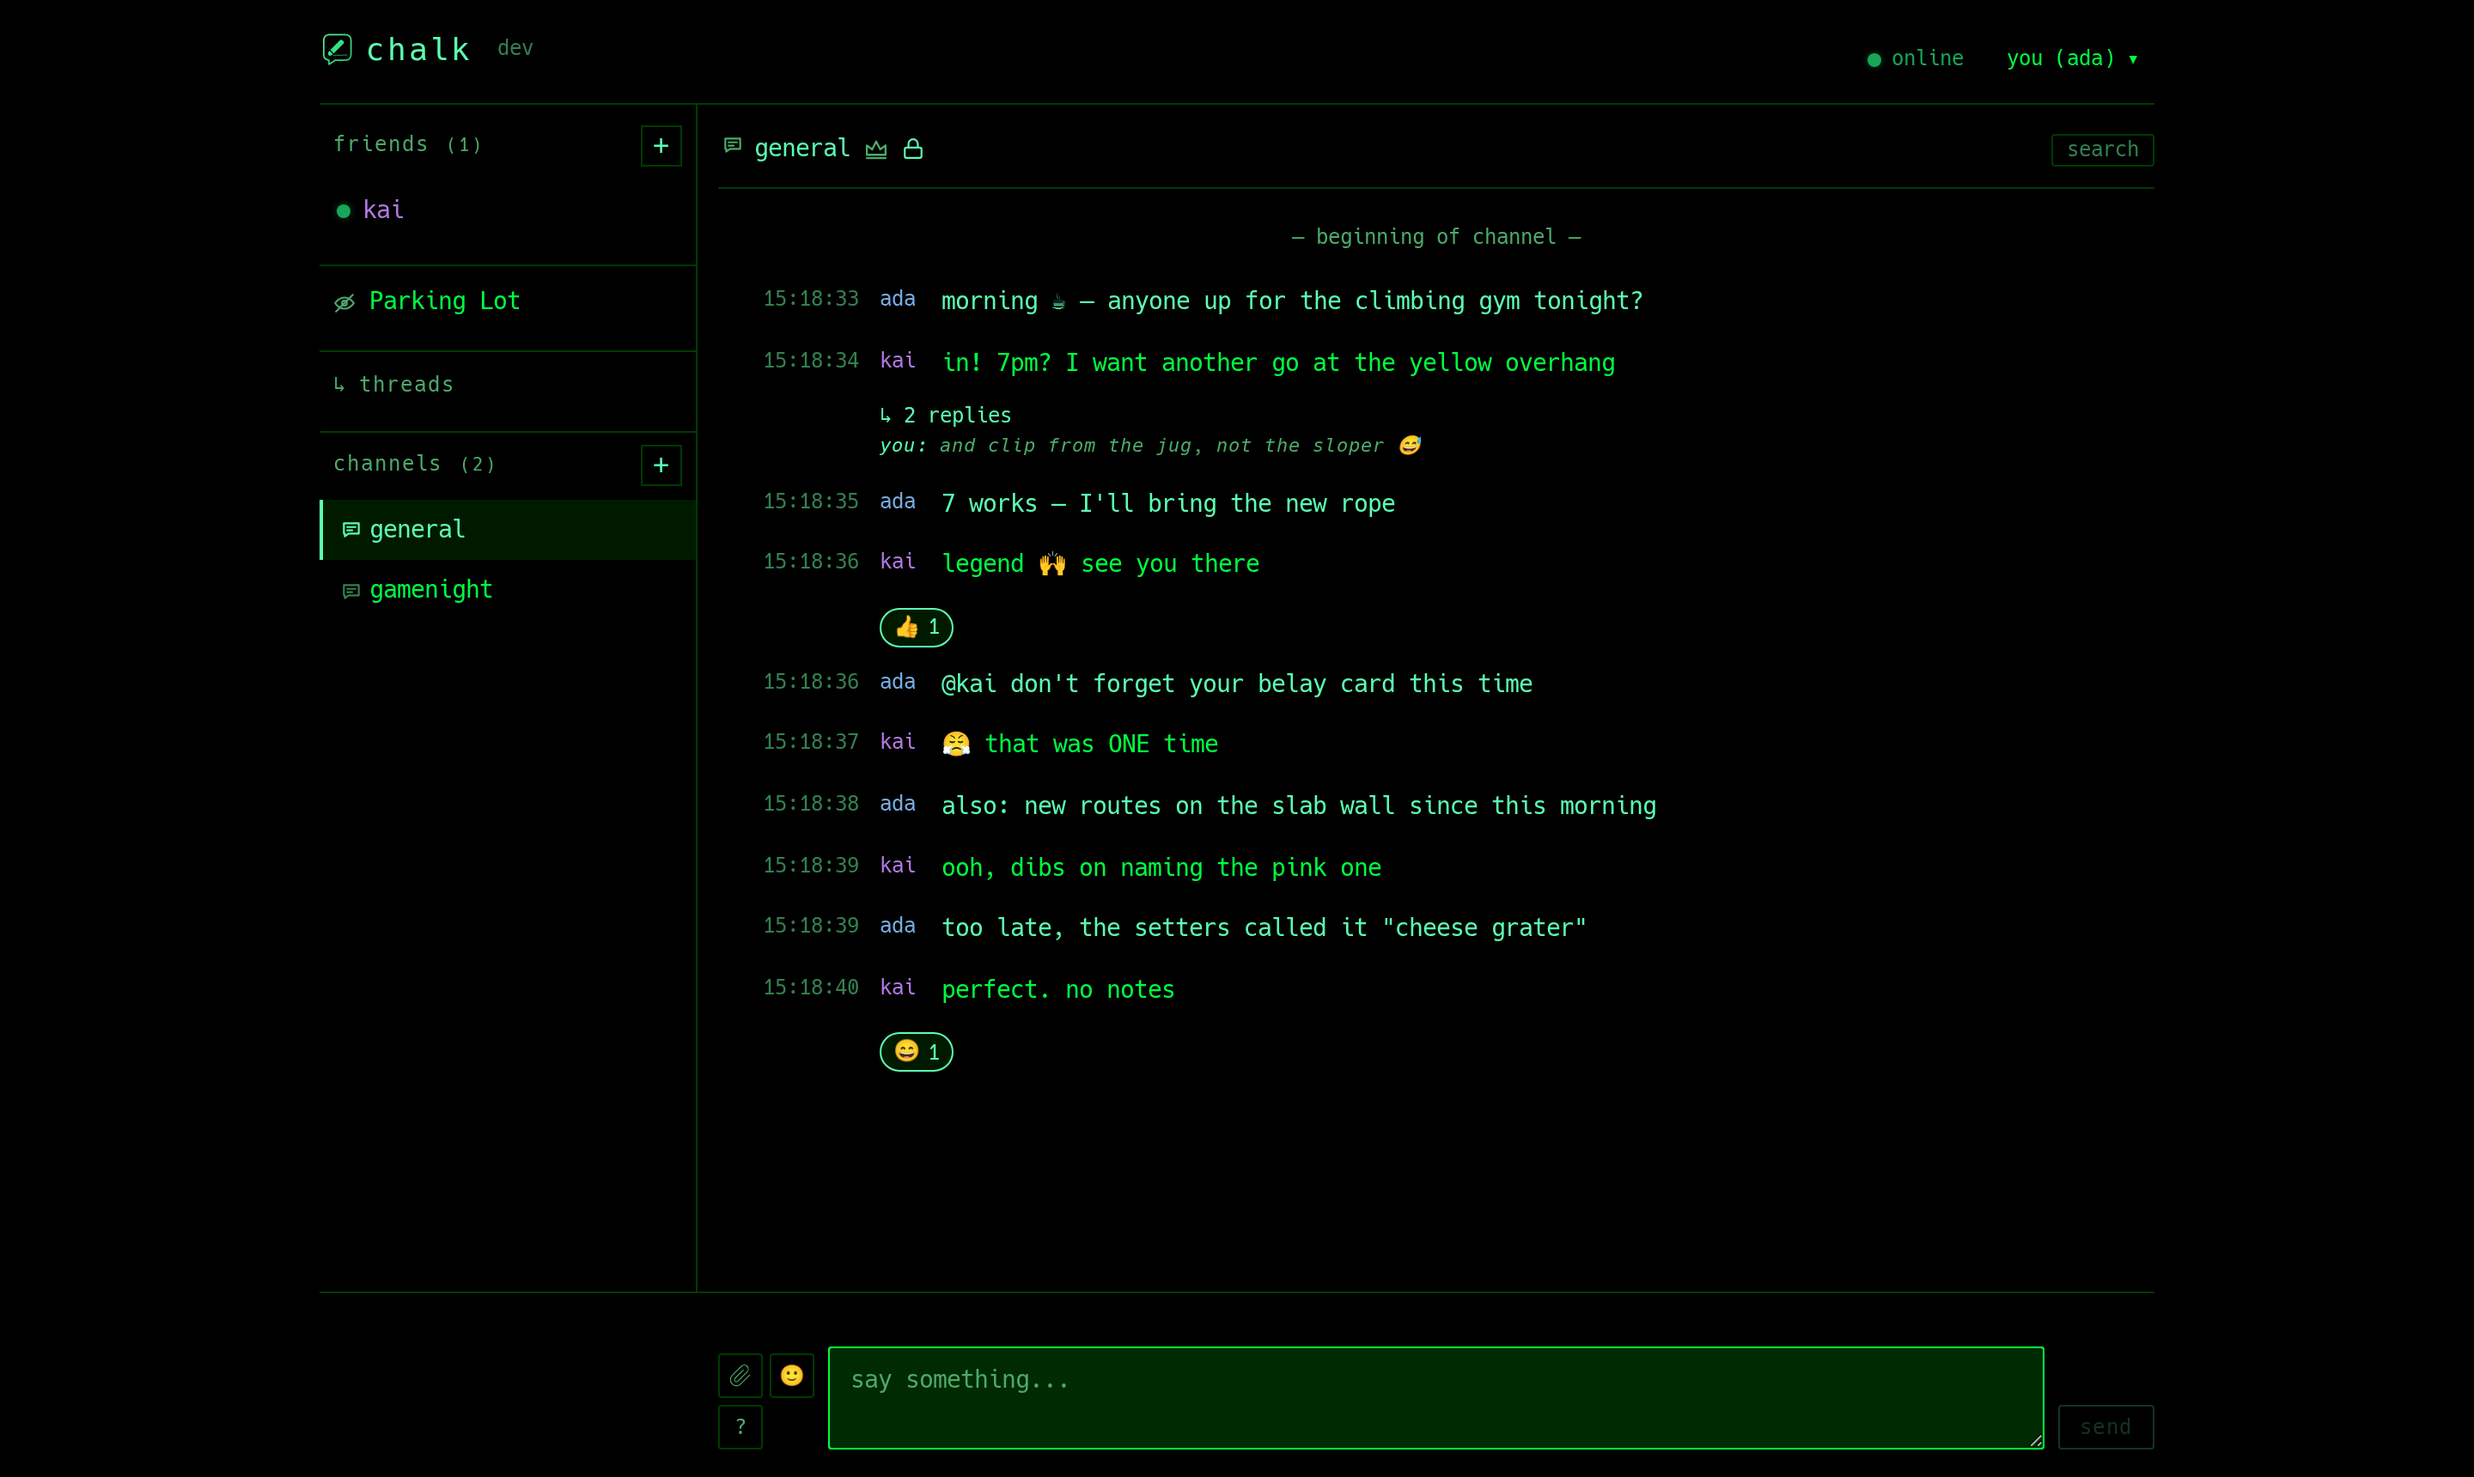
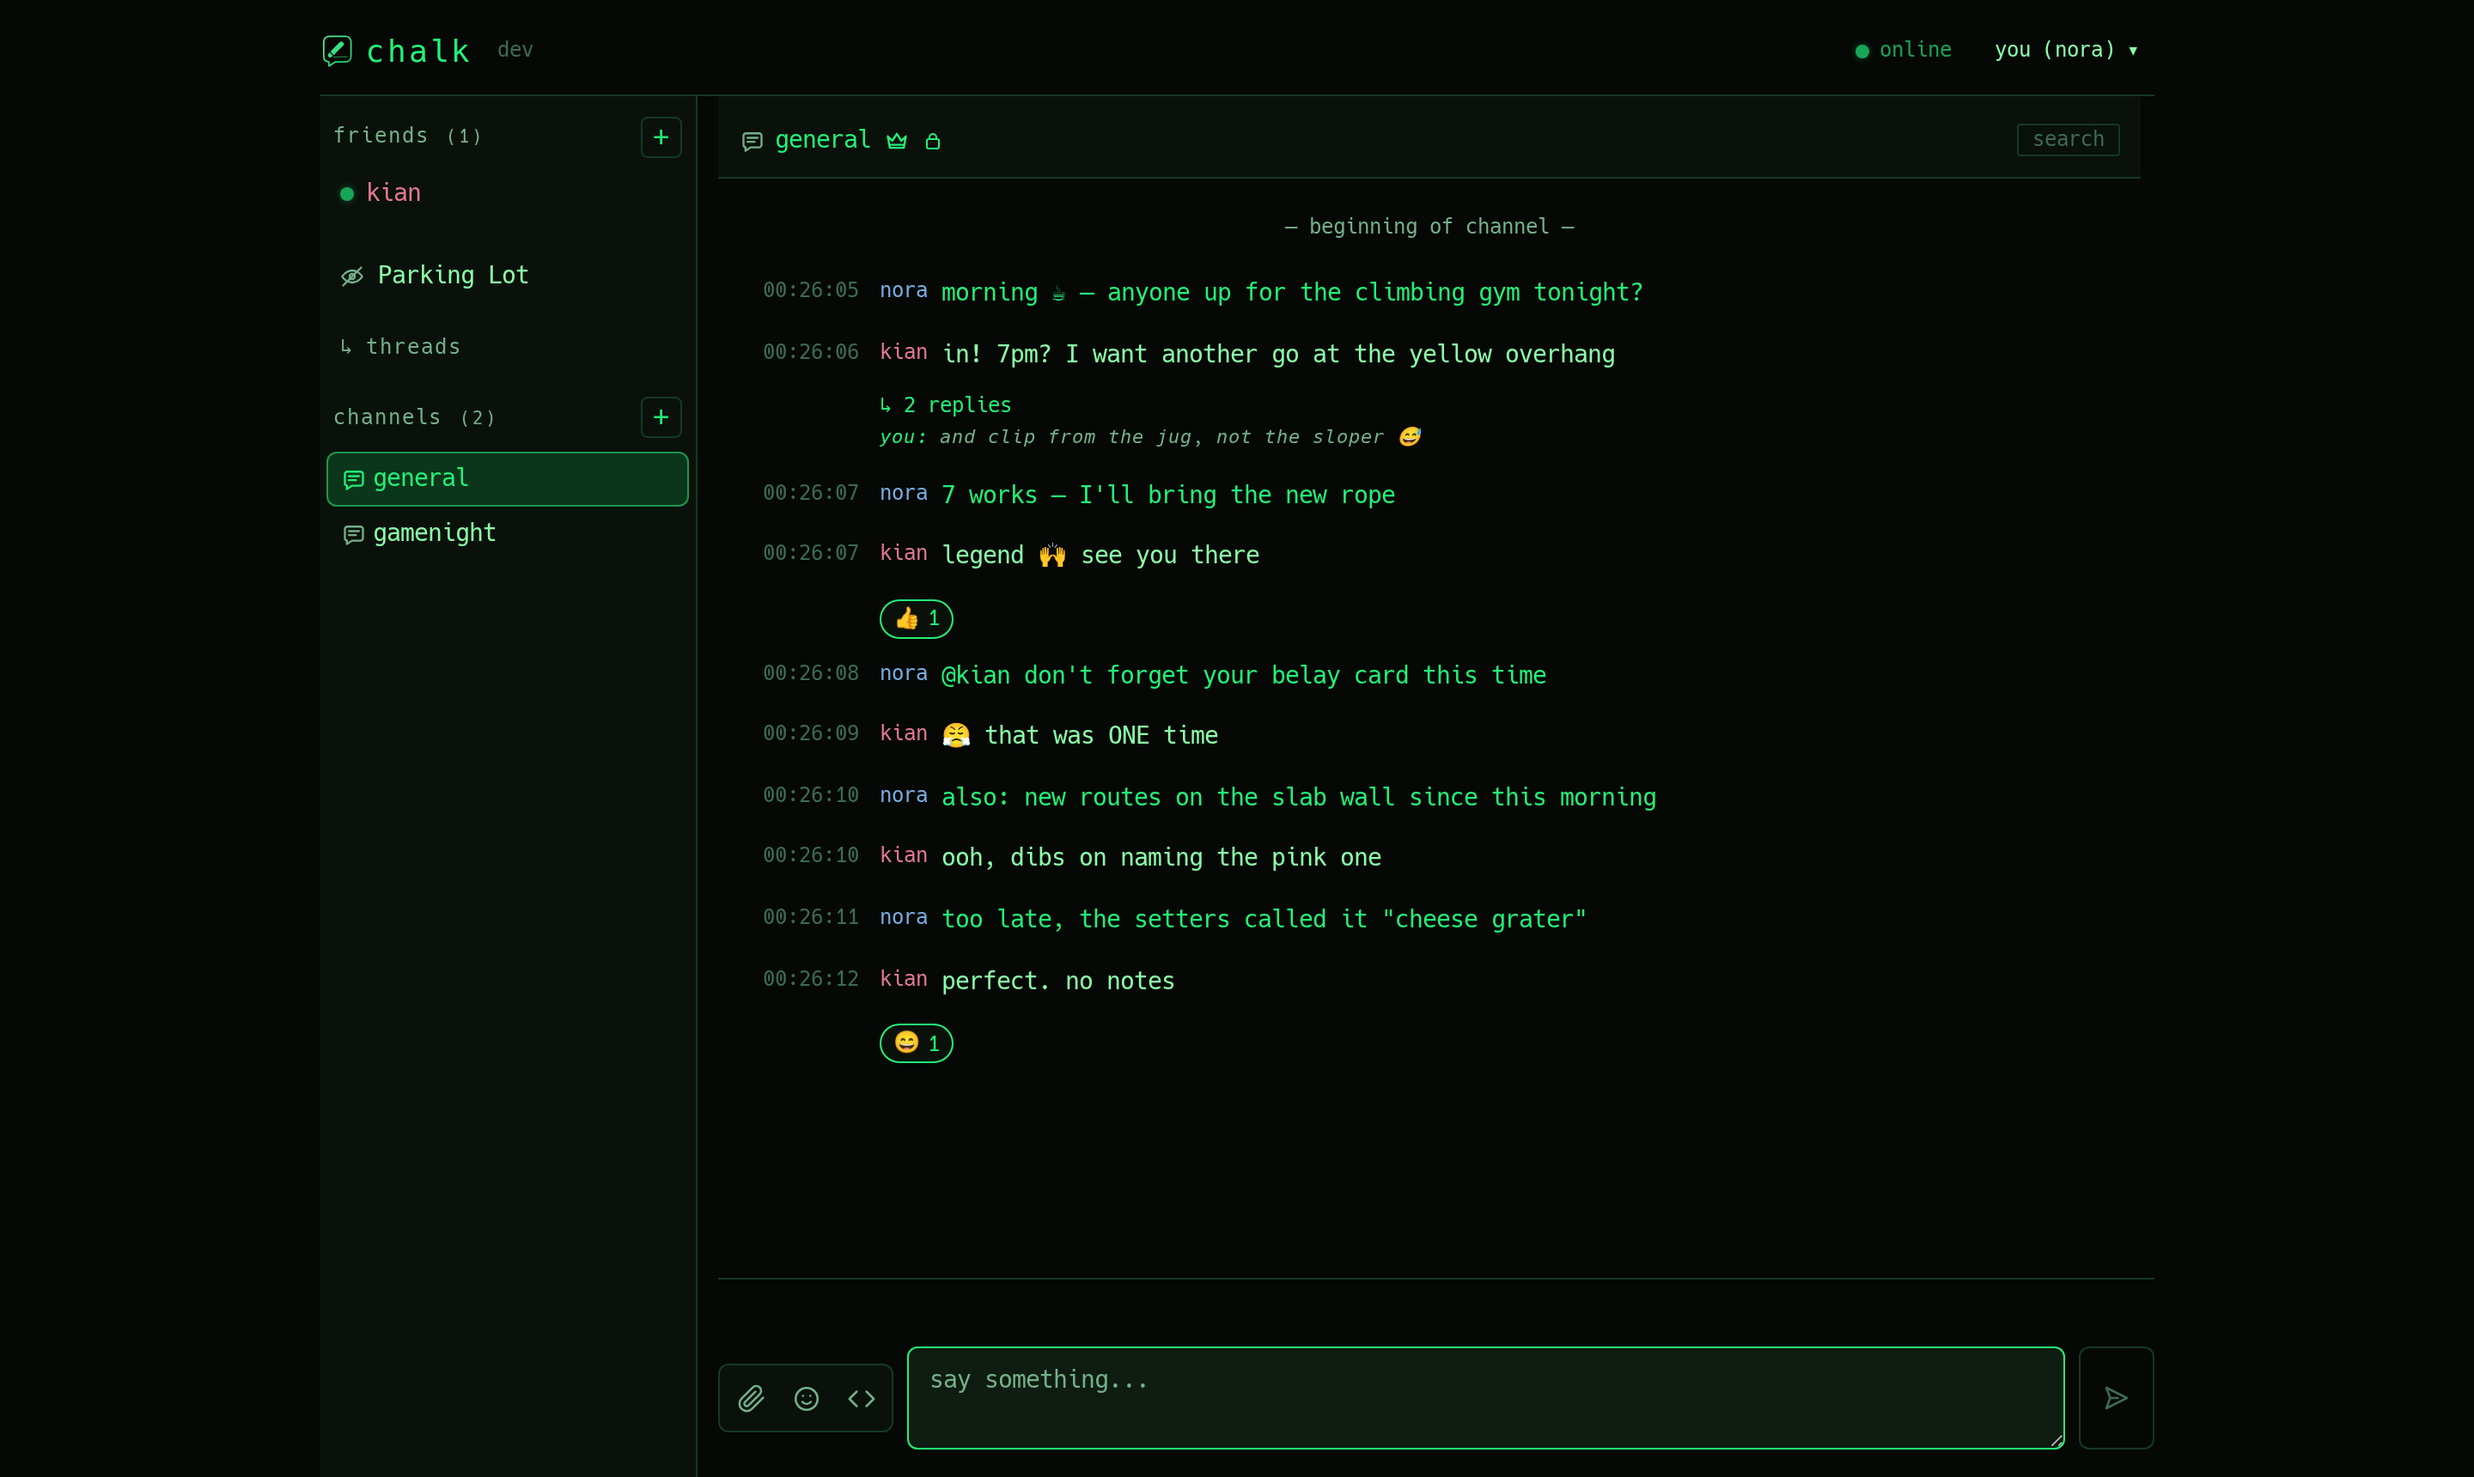
release v0.12.1: push notifications and a reworked phone layout

diff --git a/.claude/skills/run-chalk/SKILL.md b/.claude/skills/run-chalk/SKILL.md
@@ -150,7 +150,7 @@ committed from it would describe whatever question came last.
 
 | script | what it holds |
 |---|---|
-| `readme-shots.mjs` | regenerates `docs/screenshots/` for the README — two users, a staged conversation, reaction + thread, desktop + mobile. Header says how to re-run it (fresh handles needed) |
+| `readme-shots.mjs` | regenerates `docs/screenshots/` for the README — three users (handles from `README_USER_A`, `README_USER_B`, `README_USER_C`), a staged conversation, reaction + thread, four shots: desktop, thread, phone conversation, phone list. Header says how to re-run it (fresh handles needed) |
 | `unread-landing.mjs` | the 79-2 repro: where opening a channel puts the view, across a real attachment decrypt on a phone-shaped viewport |
 | `reentry-landing.mjs` | 79-10: the zucker second-visit landing on a phone-shaped viewport. Records every write to the scroller offset, so it shows the window in which a landing write had not taken effect. 5 checks (five entries) |
 | `parking-privacy.mjs` | 53-4/53-5: asks the computed style whether the privacy screen blurs every shell child except the parked pane, and whether F9's guard and the way back behave. 15 checks |

diff --git a/README.md b/README.md
@@ -50,11 +50,14 @@ never a bypass of the second factor.
 
 The default theme (fourteen more in settings), on a dev instance:
 
-![A channel in the desktop layout: sidebar with friends and channels, a conversation with reactions, an @mention and a thread indicator](docs/screenshots/chat-desktop.png)
+![A channel in the desktop layout: sidebar with friends and channels, a conversation with reactions, an @mention, and a thread indicator](docs/screenshots/chat-desktop.png)
 
 ![The same channel with the thread panel open on the right, showing two replies and their own composer](docs/screenshots/chat-thread.png)
 
-<img src="docs/screenshots/chat-mobile.png" width="360" alt="The mobile layout: the same conversation with the new-messages divider and a highlighted @mention">
+<p>
+<img src="docs/screenshots/chat-mobile-list.png" width="300" alt="The phone conversation list: five icon buttons, two friend chips, an unread channel, an unread direct conversation, and a read channel">
+<img src="docs/screenshots/chat-mobile.png" width="300" alt="The phone layout: a channel with a reaction, and a composer with a full-width field above a row of tools and send">
+</p>
 
 ## Quick start (development)
 

diff --git a/docs/open-items.md b/docs/open-items.md
@@ -5,7 +5,7 @@ What is **not** done. Shipped history lives in [phase-log.md](phase-log.md)
 is the authority on what is still open, and `CLAUDE.md` points here rather than
 carrying it.
 
-Latest release: **v0.12.0** — keep this in step with the topmost `## vX.Y.Z`
+Latest release: **v0.12.1** — keep this in step with the topmost `## vX.Y.Z`
 heading in `CHANGELOG.md`. The `/release` skill updates it as part of cutting a
 release. A stale pointer is worse than none, because it still reads as current.
 

diff --git a/CHANGELOG.md b/CHANGELOG.md
@@ -10,7 +10,7 @@ The engineering-level history (which slice shipped what) lives in
 
 ---
 
-## Unreleased
+## v0.12.1 — 15 November 2026 — Push notifications and a reworked phone layout
 
 ### Added
 - `chalkctl` now creates a web push key for your deployment and has a `chalkctl push` command to show, turn on, turn off, and replace it. A fresh `chalkctl init` turns push on. `chalkctl update` leaves push off until you run `chalkctl push enable`.
